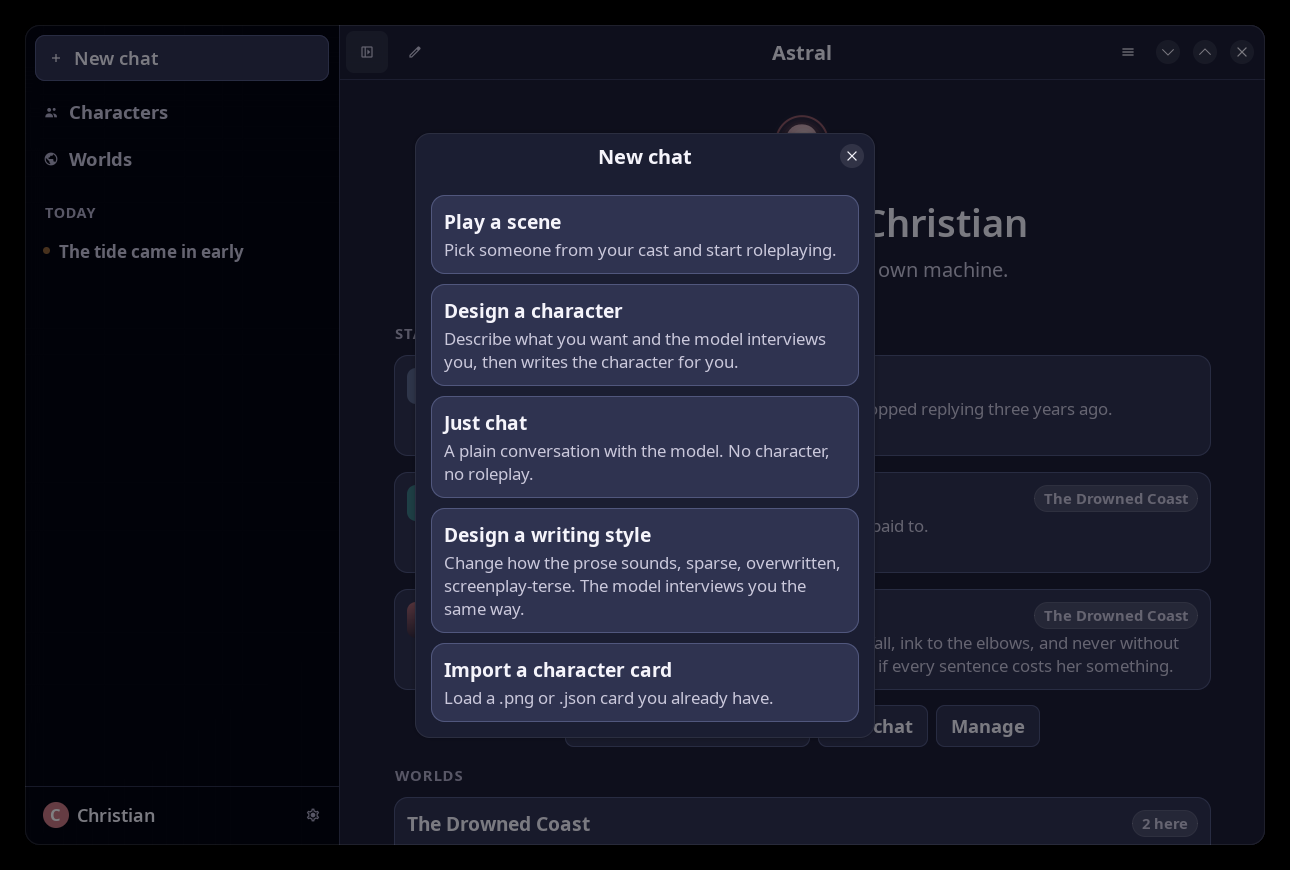
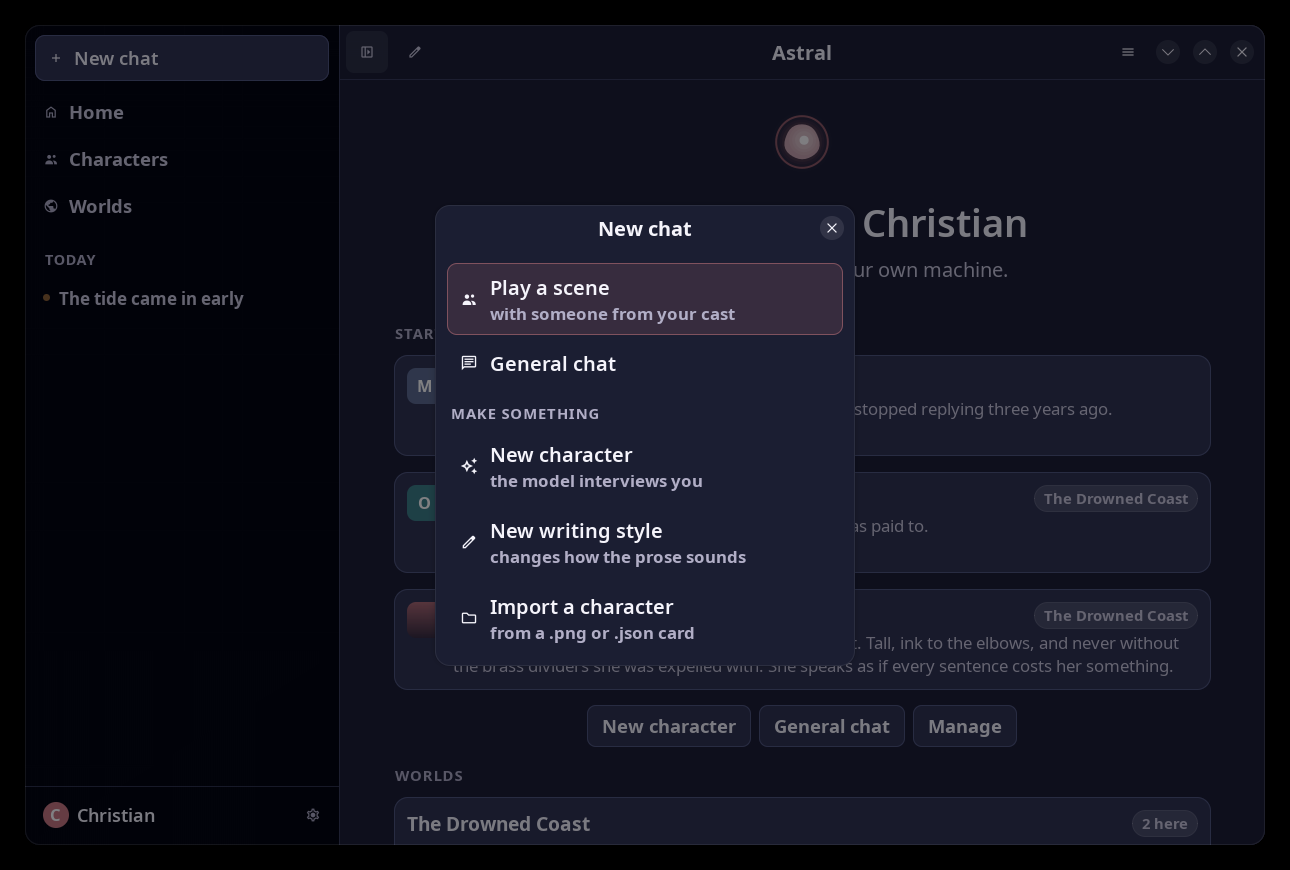
Rebuild the new-chat launcher, and add Home
The launcher was five stacked cards of title-and-paragraph, which read
as a form to be studied rather than a menu to be picked from. It is now
icon, label, and a short line only where one is earned.

Most of those paragraphs were explaining labels that should not have
needed explaining. "Just chat" carried a line telling you it meant a
plain conversation with no character; "General chat" says that by
itself. "Design a character" is "New character", "Import a character
card" is "Import a character". The two that kept a note kept it because
it is genuinely unexpected: the model interviews you, and a writing
style changes how the prose sounds.

The welcome screen was using the vocabulary the launcher just dropped,
so the same action had two names depending on where you met it. It
matches now.

Playing is the primary row and carries the accent at rest rather than
only on hover, so the eye lands first on what the dialog is usually
opened to do. With no cast there is nothing to play, so the plain
conversation takes that emphasis instead of pointing at a dead end.

Two rows had the same icon. The assistant glyph is a speech bubble, and
at 18px "New character" was indistinguishable from "General chat" two
rows above it. The designer icon is a sparkle now, which says the model
makes this for you and collides with nothing. It had to be given a
viewBox first: Material Symbols ships auto_awesome without one, in a
[…]

diff --git a/assets/style.css b/assets/style.css
@@ -782,3 +782,52 @@ frame:focus-within {
 	border-style: solid;
 	color: @astral_text;
 }
+
+/* ---- The "new chat" launcher ---- */
+
+/* Icon, label, and a short note only where it earns one. This replaced five
+   stacked title-and-paragraph cards, which read as a form to be studied rather
+   than a menu to be picked from. */
+.launch-row {
+	padding: 9px 12px;
+	border-radius: 10px;
+	background-color: transparent;
+	border: 1px solid transparent;
+	box-shadow: none;
+	transition: background-color 120ms ease, border-color 120ms ease;
+}
+
+.launch-row:hover {
+	background-color: @astral_surface;
+	border-color: @astral_border;
+}
+
+/* The one thing this dialog is usually opened to do. It carries the accent at
+   rest rather than only on hover, so the eye lands on it first. */
+.launch-row-primary {
+	background-color: alpha(@accent_bg_color, 0.16);
+	border-color: alpha(@accent_bg_color, 0.5);
+}
+
+.launch-row-primary:hover {
+	background-color: alpha(@accent_bg_color, 0.26);
+	border-color: alpha(@accent_bg_color, 0.75);
+}
+
+.launch-row-title {
+	font-weight: 600;
+}
+
+.launch-row-note {
+	font-size: 0.84em;
+	color: @astral_faint;
+}
+
+.launch-heading {
+	font-size: 0.74em;
+	font-weight: 700;
+	letter-spacing: 0.06em;
+	text-transform: uppercase;
+	color: @astral_faint;
+	margin: 12px 4px 2px 4px;
+}

diff --git a/internal/app/designer.go b/internal/app/designer.go
@@ -28,28 +28,50 @@ const buildTimeout = 6 * time.Minute
 func (a *App) showNewChat() {
 	d := adw.NewDialog()
 	d.SetTitle("New chat")
-	d.SetContentWidth(460)
+	d.SetContentWidth(420)
 
-	page := gtk.NewBox(gtk.OrientationVertical, 10)
-	page.SetMarginTop(16)
-	page.SetMarginBottom(16)
-	page.SetMarginStart(16)
-	page.SetMarginEnd(16)
+	page := gtk.NewBox(gtk.OrientationVertical, 4)
+	page.SetMarginTop(12)
+	page.SetMarginBottom(12)
+	page.SetMarginStart(12)
+	page.SetMarginEnd(12)
 
-	add := func(title, subtitle string, onClick func()) {
+	// Icon, label, and a short line only where it earns one.
+	//
+	// This was five stacked cards of title-plus-paragraph, which read as a
+	// form to be studied rather than a menu to be picked from. Most of those
+	// paragraphs were explaining labels that should not have needed
+	// explaining: "Just chat" had a line telling you it meant a plain
+	// conversation, which is what a clearer label says by itself.
+	add := func(icon, title, note string, primary bool, onClick func()) {
 		btn := gtk.NewButton()
-		btn.AddCSSClass("character-card")
-		box := gtk.NewBox(gtk.OrientationVertical, 3)
+		btn.AddCSSClass("launch-row")
+		if primary {
+			btn.AddCSSClass("launch-row-primary")
+		}
+
+		row := gtk.NewBox(gtk.OrientationHorizontal, 12)
+		img := gtk.NewImageFromIconName(icon)
+		img.SetPixelSize(18)
+		img.SetVAlign(gtk.AlignCenter)
+		row.Append(img)
+
+		col := gtk.NewBox(gtk.OrientationVertical, 1)
+		col.SetHExpand(true)
+		col.SetVAlign(gtk.AlignCenter)
 		t := gtk.NewLabel(title)
 		t.SetXAlign(0)
-		t.AddCSSClass("character-card-name")
-		box.Append(t)
-		sub := gtk.NewLabel(subtitle)
-		sub.SetXAlign(0)
-		sub.SetWrap(true)
-		sub.AddCSSClass("character-card-desc")
-		box.Append(sub)
-		btn.SetChild(box)
+		t.AddCSSClass("launch-row-title")
+		col.Append(t)
+		if note != "" {
+			n := gtk.NewLabel(note)
+			n.SetXAlign(0)
+			n.AddCSSClass("launch-row-note")
+			col.Append(n)
+		}
+		row.Append(col)
+
+		btn.SetChild(row)
 		btn.ConnectClicked(func() {
 			d.Close()
 			onClick()
@@ -57,31 +79,27 @@ func (a *App) showNewChat() {
 		page.Append(btn)
 	}
 
-	// Playing comes first when there is anyone to play with. It is the thing
-	// this dialog is most often opened to do, and it was listed under the one
-	// that takes twenty minutes and an interview.
-	n, _ := a.store.CountCharacters()
-	if n > 0 {
-		add("Play a scene",
-			"Pick someone from your cast and start roleplaying.",
-			a.showCharacters)
+	heading := func(text string) {
+		l := gtk.NewLabel(text)
+		l.SetXAlign(0)
+		l.AddCSSClass("launch-heading")
+		page.Append(l)
 	}
 
-	add("Design a character",
-		"Describe what you want and the model interviews you, then writes the character for you.",
-		a.newDesignerChat)
+	// Playing comes first, and looks like it: it is what this dialog is most
+	// often opened to do.
+	// With no cast there is nothing to play, so the plain conversation takes
+	// the emphasis instead of offering a route that leads nowhere.
+	cast, _ := a.store.CountCharacters()
+	if cast > 0 {
+		add(ui.IconCharacters, "Play a scene", "with someone from your cast", true, a.showCharacters)
+	}
+	add(ui.IconChat, "General chat", "", cast == 0, a.newAssistantChat)
 
-	add("Just chat",
-		"A plain conversation with the model. No character, no roleplay.",
-		a.newAssistantChat)
-
-	add("Design a writing style",
-		"Change how the prose sounds, sparse, overwritten, screenplay-terse. The model interviews you the same way.",
-		a.newStyleDesignerChat)
-
-	add("Import a character card",
-		"Load a .png or .json card you already have.",
-		a.actionImportCharacter)
+	heading("Make something")
+	add(ui.IconDesigner, "New character", "the model interviews you", false, a.newDesignerChat)
+	add(ui.IconEdit, "New writing style", "changes how the prose sounds", false, a.newStyleDesignerChat)
+	add(ui.IconFolder, "Import a character", "from a .png or .json card", false, a.actionImportCharacter)
 
 	tv := adw.NewToolbarView()
 	tv.AddTopBar(adw.NewHeaderBar())

diff --git a/internal/app/welcome.go b/internal/app/welcome.go
@@ -237,15 +237,15 @@ func (a *App) appendCast() {
 
 	design := gtk.NewButton()
 	design.AddCSSClass("welcome-action")
-	design.SetLabel("Design a new character")
-	design.SetTooltipText("Describe what you want and the model builds it with you")
+	design.SetLabel("New character")
+	design.SetTooltipText("The model interviews you, then writes the character")
 	design.ConnectClicked(a.newDesignerChat)
 	row.Append(design)
 
 	plain := gtk.NewButton()
 	plain.AddCSSClass("welcome-action")
-	plain.SetLabel("Just chat")
-	plain.SetTooltipText("A plain conversation with the model, no character")
+	plain.SetLabel("General chat")
+	plain.SetTooltipText("A conversation with the model, no character and no roleplay")
 	plain.ConnectClicked(a.newAssistantChat)
 	row.Append(plain)
 
@@ -283,14 +283,14 @@ func (a *App) buildEmptyCast() *gtk.Box {
 	// easier way in.
 	row := gtk.NewBox(gtk.OrientationHorizontal, 8)
 	row.SetHAlign(gtk.AlignStart)
-	design := gtk.NewButtonWithLabel("Design one with the model")
+	design := gtk.NewButtonWithLabel("New character")
 	design.AddCSSClass("suggested-action")
 	design.ConnectClicked(a.newDesignerChat)
 	row.Append(design)
-	imp := gtk.NewButtonWithLabel("Import a card…")
+	imp := gtk.NewButtonWithLabel("Import a character")
 	imp.ConnectClicked(a.actionImportCharacter)
 	row.Append(imp)
-	write := gtk.NewButtonWithLabel("Write one")
+	write := gtk.NewButtonWithLabel("Write one yourself")
 	write.ConnectClicked(func() { a.editCharacter(chars.Character{}) })
 	row.Append(write)
 	card.Append(row)

diff --git a/internal/ui/sidebar.go b/internal/ui/sidebar.go
@@ -21,6 +21,7 @@ type Sidebar struct {
 	profile     *gtk.Button
 	profileMenu *gtk.Popover
 	charsBtn    *gtk.Button
+	homeBtn     *gtk.Button
 
 	selected int64
 	rows     map[int64]*gtk.Button
@@ -36,6 +37,8 @@ type Sidebar struct {
 	OnNewChat    func()
 	OnOpenChat   func(id int64)
 	OnCharacters func()
+	// OnHome returns to the welcome screen.
+	OnHome func()
 	// OnWorlds opens the list of settings.
 	OnWorlds   func()
 	OnSettings func()
@@ -69,6 +72,17 @@ func NewSidebar() *Sidebar {
 
 	nav := gtk.NewBox(gtk.OrientationVertical, 1)
 	nav.AddCSSClass("sidebar-nav")
+
+	// The way back. The welcome screen holds the cast, the worlds and the
+	// greeting, and until now it could only be reached by having no chat open
+	// — which, once you had opened one, meant not at all.
+	s.homeBtn = gtk.NewButton()
+	s.homeBtn.AddCSSClass("sidebar-item")
+	s.homeBtn.SetChild(rowContent(IconHome, "Home"))
+	s.homeBtn.SetTooltipText("Your cast and your worlds")
+	s.homeBtn.ConnectClicked(func() { fire(s.OnHome) })
+	nav.Append(s.homeBtn)
+
 	s.charsBtn = gtk.NewButton()
 	s.charsBtn.AddCSSClass("sidebar-item")
 	s.charsBtn.SetChild(rowContent(IconCharacters, "Characters"))

diff --git a/internal/app/window.go b/internal/app/window.go
@@ -152,6 +152,7 @@ func (a *App) buildContent() *adw.ToolbarView {
 func (a *App) buildSidebar() {
 	a.sidebar = ui.NewSidebar()
 	a.sidebar.OnNewChat = a.actionNewChat
+	a.sidebar.OnHome = a.goHome
 	a.sidebar.OnCharacters = a.showCharacters
 	a.sidebar.OnWorlds = a.showWorlds
 	a.sidebar.OnSettings = a.showSettings
@@ -217,6 +218,20 @@ func (a *App) showWelcome() {
 	if a.sidebar != nil {
 		a.sidebar.Select(0)
 	}
+}
+
+// goHome leaves the open scene for the welcome screen.
+//
+// The chat is not closed, only left: it stays in the sidebar and reopens where
+// it was. What does have to happen is that the portrait panel goes with it,
+// since it belongs to a character nobody is playing at the moment.
+func (a *App) goHome() {
+	if a.chat != nil {
+		a.chat.Stop()
+	}
+	a.showPortraitFor(chars.Character{})
+	a.cfg.LastChat = 0
+	a.showWelcome()
 }
 
 // setTitle puts the open scene in the header bar.

diff --git a/internal/ui/icons.go b/internal/ui/icons.go
@@ -24,6 +24,7 @@ const (
 	IconHistory    = "astral-history-symbolic"
 	IconInfo       = "astral-info-symbolic"
 	IconWorlds     = "astral-worlds-symbolic"
+	IconHome       = "astral-home-symbolic"
 )
 
 // AllIcons is every name the app uses, so the dev harness can check that none
@@ -32,5 +33,5 @@ var AllIcons = []string{
 	IconSend, IconStop, IconCopy, IconRegenerate, IconTrash, IconEdit,
 	IconMenu, IconPanelLeft, IconChat, IconCharacters, IconDesigner,
 	IconSettings, IconFolder, IconAdd, IconSearch, IconHistory, IconInfo,
-	IconWorlds,
+	IconWorlds, IconHome,
 }
